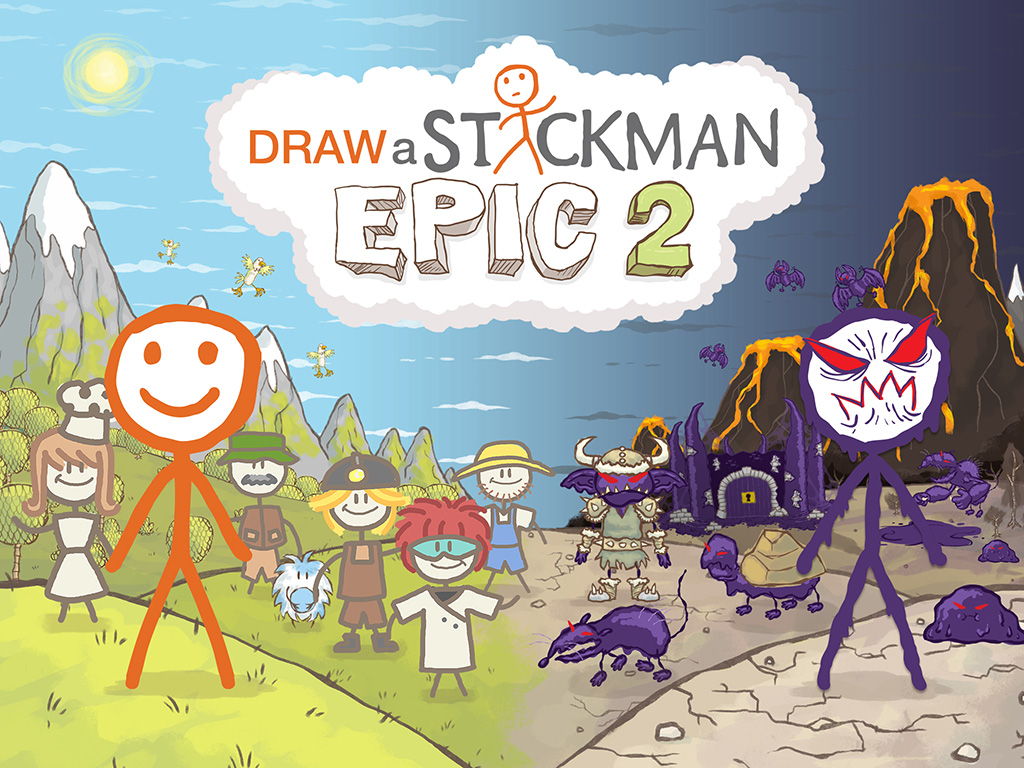
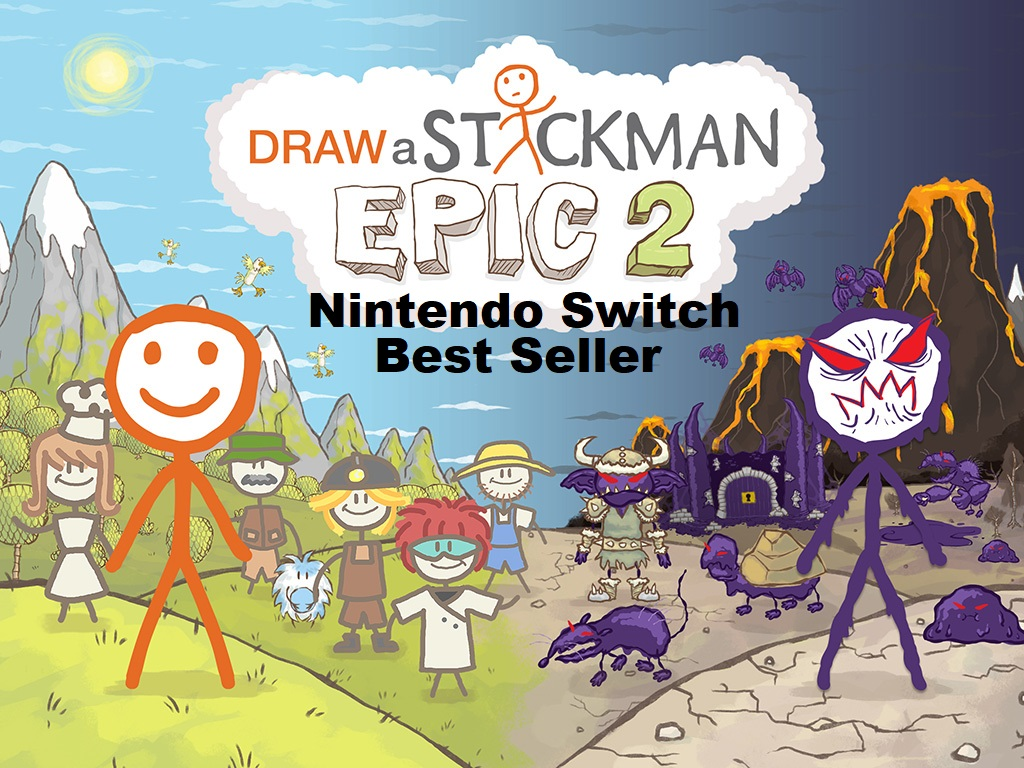
add some best seller flavor to DASE2

diff --git a/dasme2.html b/dasme2.html
@@ -123,7 +123,7 @@
       <header class="entry-header" >
         <h2>Draw a Stickman: EPIC 2, 2015 - 2020</h2>  
         <ul class=" custom-social">
-        <li>Adventure/Drawing game - Xbox One, PS4, Nintendo Switch, PC/Mac, Android, iOS</li>
+        <li>Best selling Adventure/Drawing game - Xbox One, PS4, Nintendo Switch, PC/Mac, Android, iOS</li>
         </ul>
            
       </header>
@@ -138,9 +138,9 @@
         <li><strong>Lead in-house team in creating the DLC “Drawn Below”</strong></li>
       </ul>
 	  
+	  <a class="btn btn-default btn-lg btn-block" href="https://nintendoeverything.com/switch-eshop-charts-5-25-19/">Nintendo Switch Top Seller Charts May 2019</a>
 	  <a class="btn btn-default btn-lg btn-block" href="http://www.nintendolife.com/reviews/switch-eshop/draw_a_stickman_epic_2">Nintendo Life Review</a>
 	  <a class="btn btn-default btn-lg btn-block" href="http://gallery.drawastickman.com/">User Drawings Gallery</a>
-	  <a class="btn btn-default btn-lg btn-block" href="https://hitcents.com/games/dase2">Hitcents Page</a>
 	  
     </div><!--/content block-->
      <div class="clearfix"></div>
